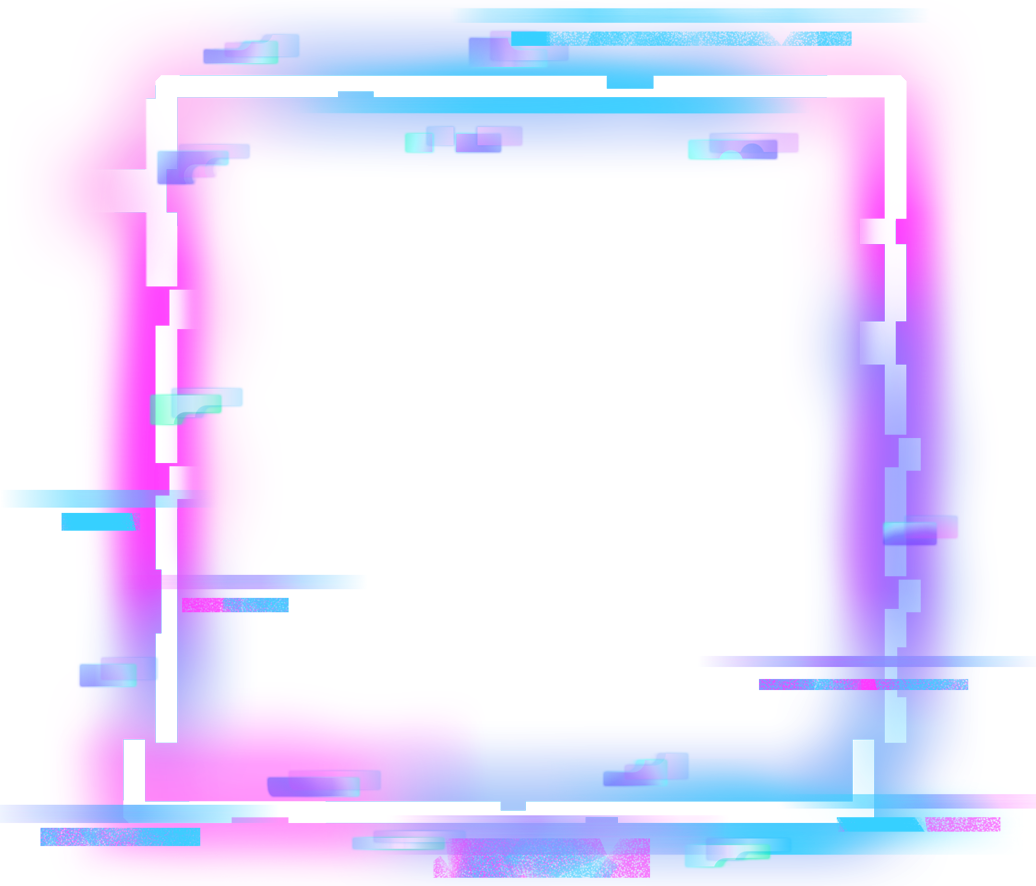
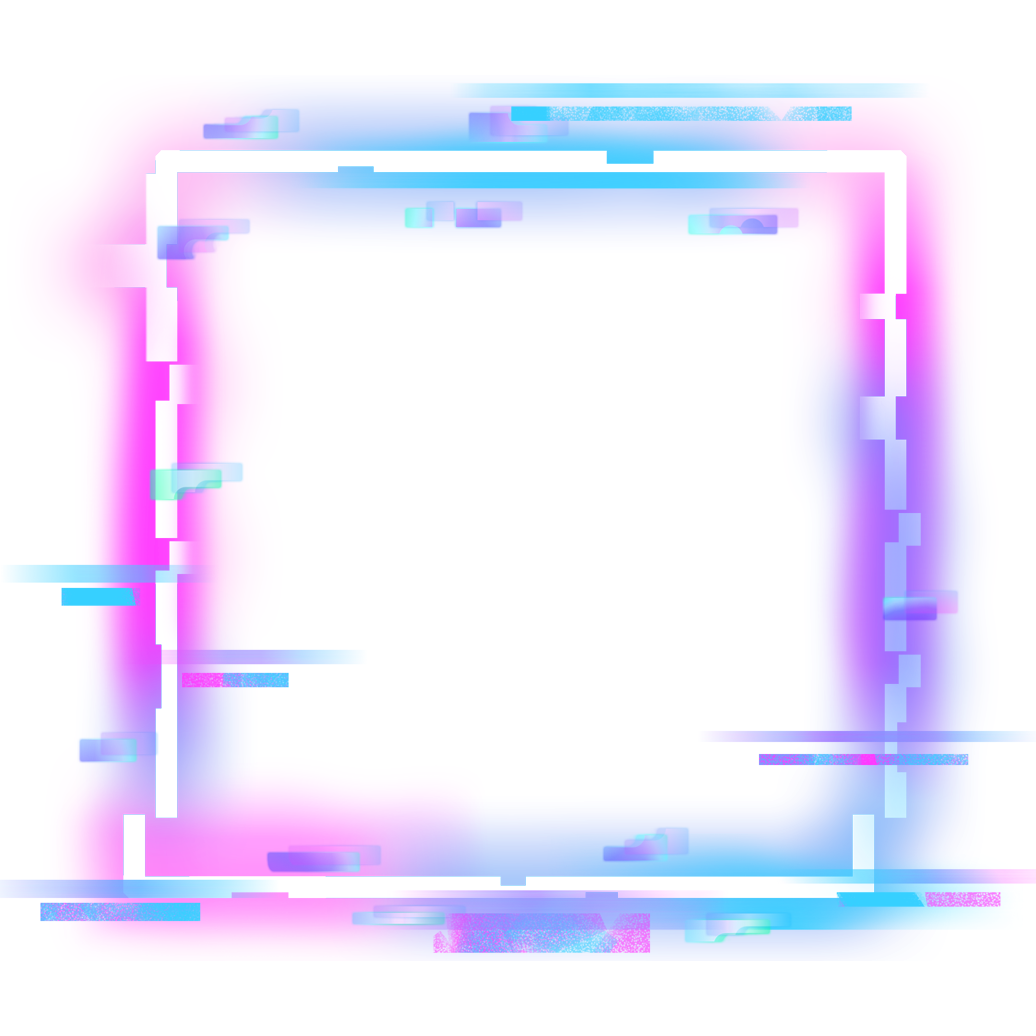
marcos redimensionados, iconos finance y devs creados

diff --git a/src/app/drop-down-menu/finance/finance.component.ts b/src/app/drop-down-menu/finance/finance.component.ts
@@ -21,34 +21,16 @@ export class FinanceComponent implements OnInit {
   iconos = {
     "icons": [
       {
-        "name": "github",
-        "path": "M165.9 397.4c0 2-2.3 3.6-5.2 3.6-3.3.3-5.6-1.3-5.6-3.6 0-2 2.3-3.6 5.2-3.6 3-.3 5.6 1.3 5.6 3.6zm-31.1-4.5c-.7 2 1.3 4.3 4.3 4.9 2.6 1 5.6 0 6.2-2s-1.3-4.3-4.3-5.2c-2.6-.7-5.5.3-6.2 2.3zm44.2-1.7c-2.9.7-4.9 2.6-4.6 4.9.3 2 2.9 3.3 5.9 2.6 2.9-.7 4.9-2.6 4.6-4.6-.3-1.9-3-3.2-5.9-2.9zM244.8 8C106.1 8 0 113.3 0 252c0 110.9 69.8 205.8 169.5 239.2 12.8 2.3 17.3-5.6 17.3-12.1 0-6.2-.3-40.4-.3-61.4 0 0-70 15-84.7-29.8 0 0-11.4-29.1-27.8-36.6 0 0-22.9-15.7 1.6-15.4 0 0 24.9 2 38.6 25.8 21.9 38.6 58.6 27.5 72.9 20.9 2.3-16 8.8-27.1 16-33.7-55.9-6.2-112.3-14.3-112.3-110.5 0-27.5 7.6-41.3 23.6-58.9-2.6-6.5-11.1-33.3 2.6-67.9 20.9-6.5 69 27 69 27 20-5.6 41.5-8.5 62.8-8.5s42.8 2.9 62.8 8.5c0 0 48.1-33.6 69-27 13.7 34.7 5.2 61.4 2.6 67.9 16 17.7 25.8 31.5 25.8 58.9 0 96.5-58.9 104.2-114.8 110.5 9.2 7.9 17 22.9 17 46.4 0 33.7-.3 75.4-.3 83.6 0 6.5 4.6 14.4 17.3 12.1C428.2 457.8 496 362.9 496 252 496 113.3 383.5 8 244.8 8zM97.2 352.9c-1.3 1-1 3.3.7 5.2 1.6 1.6 3.9 2.3 5.2 1 1.3-1 1-3.3-.7-5.2-1.6-1.6-3.9-2.3-5.2-1zm-10.8-8.1c-.7 1.3.3 2.9 2.3 3.9 1.6 1 3.6.7 4.3-.7.7-1.3-.3-2.9-2.3-3.9-2-.6-3.6-.3-4.3.7zm32.4 35.6c-1.6 1.3-1 4.3 1.3 6.2 2.3 2.3 5.2 2.6 6.5 1 1.3-1.3.7-4.3-1.3-6.2-2.2-2.3-5.2-2.6-6.5-1zm-11.4-14.7c-1.6 1-1.6 3.6 0 5.9 1.6 2.3 4.3 3.3 5.6 2.3 1.6-1.3 1.6-3.9 0-6.2-1.4-2.3-4-3.3-5.6-2z",
+        "name": "paypal",
+        "path": "M111.4 295.9c-3.5 19.2-17.4 108.7-21.5 134-.3 1.8-1 2.5-3 2.5H12.3c-7.6 0-13.1-6.6-12.1-13.9L58.8 46.6c1.5-9.6 10.1-16.9 20-16.9 152.3 0 165.1-3.7 204 11.4 60.1 23.3 65.6 79.5 44 140.3-21.5 62.6-72.5 89.5-140.1 90.3-43.4.7-69.5-7-75.3 24.2zM357.1 152c-1.8-1.3-2.5-1.8-3 1.3-2 11.4-5.1 22.5-8.8 33.6-39.9 113.8-150.5 103.9-204.5 103.9-6.1 0-10.1 3.3-10.9 9.4-22.6 140.4-27.1 169.7-27.1 169.7-1 7.1 3.5 12.9 10.6 12.9h63.5c8.6 0 15.7-6.3 17.4-14.9.7-5.4-1.1 6.1 14.4-91.3 4.6-22 14.3-19.7 29.3-19.7 71 0 126.4-28.8 142.9-112.3 6.5-34.8 4.6-71.4-23.8-92.6z",
         "index": 0,
-        "css": "fa-brands fa-github github"
+        "css": "fa-brands fa-paypal paypal"
       },
       {
-        "name": "pdf",
-        "path": "M64 0C28.7 0 0 28.7 0 64V448c0 35.3 28.7 64 64 64H320c35.3 0 64-28.7 64-64V160H256c-17.7 0-32-14.3-32-32V0H64zM256 0V128H384L256 0zM64 224H88c30.9 0 56 25.1 56 56s-25.1 56-56 56H80v32c0 8.8-7.2 16-16 16s-16-7.2-16-16V320 240c0-8.8 7.2-16 16-16zm24 80c13.3 0 24-10.7 24-24s-10.7-24-24-24H80v48h8zm72-64c0-8.8 7.2-16 16-16h24c26.5 0 48 21.5 48 48v64c0 26.5-21.5 48-48 48H176c-8.8 0-16-7.2-16-16V240zm32 112h8c8.8 0 16-7.2 16-16V272c0-8.8-7.2-16-16-16h-8v96zm96-128h48c8.8 0 16 7.2 16 16s-7.2 16-16 16H304v32h32c8.8 0 16 7.2 16 16s-7.2 16-16 16H304v48c0 8.8-7.2 16-16 16s-16-7.2-16-16V304 240c0-8.8 7.2-16 16-16z",
+        "name": "credit",
+        "path": "M168 336C181.3 336 192 346.7 192 360C192 373.3 181.3 384 168 384H120C106.7 384 96 373.3 96 360C96 346.7 106.7 336 120 336H168zM360 336C373.3 336 384 346.7 384 360C384 373.3 373.3 384 360 384H248C234.7 384 224 373.3 224 360C224 346.7 234.7 336 248 336H360zM512 32C547.3 32 576 60.65 576 96V416C576 451.3 547.3 480 512 480H64C28.65 480 0 451.3 0 416V96C0 60.65 28.65 32 64 32H512zM512 80H64C55.16 80 48 87.16 48 96V128H528V96C528 87.16 520.8 80 512 80zM528 224H48V416C48 424.8 55.16 432 64 432H512C520.8 432 528 424.8 528 416V224z",
         "index": 100,
-        "css": "fa-solid fa-file-pdf pdf"
-      },
-      {
-        "name": "wifi",
-        "path": "M54.2 202.9C123.2 136.7 216.8 96 320 96s196.8 40.7 265.8 106.9c12.8 12.2 33 11.8 45.2-.9s11.8-33-.9-45.2C549.7 79.5 440.4 32 320 32S90.3 79.5 9.8 156.7C-2.9 169-3.3 189.2 8.9 202s32.5 13.2 45.2 .9zM320 256c56.8 0 108.6 21.1 148.2 56c13.3 11.7 33.5 10.4 45.2-2.8s10.4-33.5-2.8-45.2C459.8 219.2 393 192 320 192s-139.8 27.2-190.5 72c-13.3 11.7-14.5 31.9-2.8 45.2s31.9 14.5 45.2 2.8c39.5-34.9 91.3-56 148.2-56zm64 160c0-35.3-28.7-64-64-64s-64 28.7-64 64s28.7 64 64 64s64-28.7 64-64z",
-        "index": 200,
-        "css": "fa-solid fa-wifi wifi"
-      },
-      {
-        "name": "descarga",
-        "path": "M64 0C28.7 0 0 28.7 0 64V448c0 35.3 28.7 64 64 64H320c35.3 0 64-28.7 64-64V160H256c-17.7 0-32-14.3-32-32V0H64zM256 0V128H384L256 0zM216 232V334.1l31-31c9.4-9.4 24.6-9.4 33.9 0s9.4 24.6 0 33.9l-72 72c-9.4 9.4-24.6 9.4-33.9 0l-72-72c-9.4-9.4-9.4-24.6 0-33.9s24.6-9.4 33.9 0l31 31V232c0-13.3 10.7-24 24-24s24 10.7 24 24z",
-        "index": 300,
-        "css": "fa-solid fa-file-arrow-down download"
-      },
-      {
-        "name": "codigo",
-        "path": "M392.8 1.2c-17-4.9-34.7 5-39.6 22l-128 448c-4.9 17 5 34.7 22 39.6s34.7-5 39.6-22l128-448c4.9-17-5-34.7-22-39.6zm80.6 120.1c-12.5 12.5-12.5 32.8 0 45.3L562.7 256l-89.4 89.4c-12.5 12.5-12.5 32.8 0 45.3s32.8 12.5 45.3 0l112-112c12.5-12.5 12.5-32.8 0-45.3l-112-112c-12.5-12.5-32.8-12.5-45.3 0zm-306.7 0c-12.5-12.5-32.8-12.5-45.3 0l-112 112c-12.5 12.5-12.5 32.8 0 45.3l112 112c12.5 12.5 32.8 12.5 45.3 0s12.5-32.8 0-45.3L77.3 256l89.4-89.4c12.5-12.5 12.5-32.8 0-45.3z",
-        "index": 400,
-        "css": "fa-solid fa-code codigo"
+        "css": "fa-regular fa-credit-card credit"
       }
     ]
   };

diff --git a/src/assets/iconFinance.js b/src/assets/iconFinance.js
@@ -3,17 +3,11 @@ const dropdownListFinance = document.getElementById('dropdown-list-finance');
 const floatingIconFinance = document.getElementById('floating-icon-finance');
 
 const iconsFinance = {
-  github:
-    "M165.9 397.4c0 2-2.3 3.6-5.2 3.6-3.3.3-5.6-1.3-5.6-3.6 0-2 2.3-3.6 5.2-3.6 3-.3 5.6 1.3 5.6 3.6zm-31.1-4.5c-.7 2 1.3 4.3 4.3 4.9 2.6 1 5.6 0 6.2-2s-1.3-4.3-4.3-5.2c-2.6-.7-5.5.3-6.2 2.3zm44.2-1.7c-2.9.7-4.9 2.6-4.6 4.9.3 2 2.9 3.3 5.9 2.6 2.9-.7 4.9-2.6 4.6-4.6-.3-1.9-3-3.2-5.9-2.9zM244.8 8C106.1 8 0 113.3 0 252c0 110.9 69.8 205.8 169.5 239.2 12.8 2.3 17.3-5.6 17.3-12.1 0-6.2-.3-40.4-.3-61.4 0 0-70 15-84.7-29.8 0 0-11.4-29.1-27.8-36.6 0 0-22.9-15.7 1.6-15.4 0 0 24.9 2 38.6 25.8 21.9 38.6 58.6 27.5 72.9 20.9 2.3-16 8.8-27.1 16-33.7-55.9-6.2-112.3-14.3-112.3-110.5 0-27.5 7.6-41.3 23.6-58.9-2.6-6.5-11.1-33.3 2.6-67.9 20.9-6.5 69 27 69 27 20-5.6 41.5-8.5 62.8-8.5s42.8 2.9 62.8 8.5c0 0 48.1-33.6 69-27 13.7 34.7 5.2 61.4 2.6 67.9 16 17.7 25.8 31.5 25.8 58.9 0 96.5-58.9 104.2-114.8 110.5 9.2 7.9 17 22.9 17 46.4 0 33.7-.3 75.4-.3 83.6 0 6.5 4.6 14.4 17.3 12.1C428.2 457.8 496 362.9 496 252 496 113.3 383.5 8 244.8 8zM97.2 352.9c-1.3 1-1 3.3.7 5.2 1.6 1.6 3.9 2.3 5.2 1 1.3-1 1-3.3-.7-5.2-1.6-1.6-3.9-2.3-5.2-1zm-10.8-8.1c-.7 1.3.3 2.9 2.3 3.9 1.6 1 3.6.7 4.3-.7.7-1.3-.3-2.9-2.3-3.9-2-.6-3.6-.3-4.3.7zm32.4 35.6c-1.6 1.3-1 4.3 1.3 6.2 2.3 2.3 5.2 2.6 6.5 1 1.3-1.3.7-4.3-1.3-6.2-2.2-2.3-5.2-2.6-6.5-1zm-11.4-14.7c-1.6 1-1.6 3.6 0 5.9 1.6 2.3 4.3 3.3 5.6 2.3 1.6-1.3 1.6-3.9 0-6.2-1.4-2.3-4-3.3-5.6-2z",
-  pdf:
-    "M64 0C28.7 0 0 28.7 0 64V448c0 35.3 28.7 64 64 64H320c35.3 0 64-28.7 64-64V160H256c-17.7 0-32-14.3-32-32V0H64zM256 0V128H384L256 0zM64 224H88c30.9 0 56 25.1 56 56s-25.1 56-56 56H80v32c0 8.8-7.2 16-16 16s-16-7.2-16-16V320 240c0-8.8 7.2-16 16-16zm24 80c13.3 0 24-10.7 24-24s-10.7-24-24-24H80v48h8zm72-64c0-8.8 7.2-16 16-16h24c26.5 0 48 21.5 48 48v64c0 26.5-21.5 48-48 48H176c-8.8 0-16-7.2-16-16V240zm32 112h8c8.8 0 16-7.2 16-16V272c0-8.8-7.2-16-16-16h-8v96zm96-128h48c8.8 0 16 7.2 16 16s-7.2 16-16 16H304v32h32c8.8 0 16 7.2 16 16s-7.2 16-16 16H304v48c0 8.8-7.2 16-16 16s-16-7.2-16-16V304 240c0-8.8 7.2-16 16-16z",
-  wifi:
-    "M54.2 202.9C123.2 136.7 216.8 96 320 96s196.8 40.7 265.8 106.9c12.8 12.2 33 11.8 45.2-.9s11.8-33-.9-45.2C549.7 79.5 440.4 32 320 32S90.3 79.5 9.8 156.7C-2.9 169-3.3 189.2 8.9 202s32.5 13.2 45.2 .9zM320 256c56.8 0 108.6 21.1 148.2 56c13.3 11.7 33.5 10.4 45.2-2.8s10.4-33.5-2.8-45.2C459.8 219.2 393 192 320 192s-139.8 27.2-190.5 72c-13.3 11.7-14.5 31.9-2.8 45.2s31.9 14.5 45.2 2.8c39.5-34.9 91.3-56 148.2-56zm64 160c0-35.3-28.7-64-64-64s-64 28.7-64 64s28.7 64 64 64s64-28.7 64-64z",
-  descarga:
-    "M64 0C28.7 0 0 28.7 0 64V448c0 35.3 28.7 64 64 64H320c35.3 0 64-28.7 64-64V160H256c-17.7 0-32-14.3-32-32V0H64zM256 0V128H384L256 0zM216 232V334.1l31-31c9.4-9.4 24.6-9.4 33.9 0s9.4 24.6 0 33.9l-72 72c-9.4 9.4-24.6 9.4-33.9 0l-72-72c-9.4-9.4-9.4-24.6 0-33.9s24.6-9.4 33.9 0l31 31V232c0-13.3 10.7-24 24-24s24 10.7 24 24z",
-  codigo:
-    "M392.8 1.2c-17-4.9-34.7 5-39.6 22l-128 448c-4.9 17 5 34.7 22 39.6s34.7-5 39.6-22l128-448c4.9-17-5-34.7-22-39.6zm80.6 120.1c-12.5 12.5-12.5 32.8 0 45.3L562.7 256l-89.4 89.4c-12.5 12.5-12.5 32.8 0 45.3s32.8 12.5 45.3 0l112-112c12.5-12.5 12.5-32.8 0-45.3l-112-112c-12.5-12.5-32.8-12.5-45.3 0zm-306.7 0c-12.5-12.5-32.8-12.5-45.3 0l-112 112c-12.5 12.5-12.5 32.8 0 45.3l112 112c12.5 12.5 32.8 12.5 45.3 0s12.5-32.8 0-45.3L77.3 256l89.4-89.4c12.5-12.5 12.5-32.8 0-45.3z"
-};
+  paypal:
+        "M111.4 295.9c-3.5 19.2-17.4 108.7-21.5 134-.3 1.8-1 2.5-3 2.5H12.3c-7.6 0-13.1-6.6-12.1-13.9L58.8 46.6c1.5-9.6 10.1-16.9 20-16.9 152.3 0 165.1-3.7 204 11.4 60.1 23.3 65.6 79.5 44 140.3-21.5 62.6-72.5 89.5-140.1 90.3-43.4.7-69.5-7-75.3 24.2zM357.1 152c-1.8-1.3-2.5-1.8-3 1.3-2 11.4-5.1 22.5-8.8 33.6-39.9 113.8-150.5 103.9-204.5 103.9-6.1 0-10.1 3.3-10.9 9.4-22.6 140.4-27.1 169.7-27.1 169.7-1 7.1 3.5 12.9 10.6 12.9h63.5c8.6 0 15.7-6.3 17.4-14.9.7-5.4-1.1 6.1 14.4-91.3 4.6-22 14.3-19.7 29.3-19.7 71 0 126.4-28.8 142.9-112.3 6.5-34.8 4.6-71.4-23.8-92.6z",
+  credit:
+        "M168 336C181.3 336 192 346.7 192 360C192 373.3 181.3 384 168 384H120C106.7 384 96 373.3 96 360C96 346.7 106.7 336 120 336H168zM360 336C373.3 336 384 346.7 384 360C384 373.3 373.3 384 360 384H248C234.7 384 224 373.3 224 360C224 346.7 234.7 336 248 336H360zM512 32C547.3 32 576 60.65 576 96V416C576 451.3 547.3 480 512 480H64C28.65 480 0 451.3 0 416V96C0 60.65 28.65 32 64 32H512zM512 80H64C55.16 80 48 87.16 48 96V128H528V96C528 87.16 520.8 80 512 80zM528 224H48V416C48 424.8 55.16 432 64 432H512C520.8 432 528 424.8 528 416V224z"
+  };
 
 const iconTemplateFinance = (path) => {
   return `

diff --git a/src/app/componentes/icon/icon.component.css b/src/app/componentes/icon/icon.component.css
@@ -15,7 +15,10 @@ span{
     background-color: #25D366;
     color: #f8f8f3;
     border-radius: 50%;
-    padding-bottom: .2em;
+    height: 1.3em;
+    width: 1.3em;
+    padding-bottom: .25em;
+    padding-left: .25em;
 }
 .twitter{
     color: #1DA1F2;
@@ -32,6 +35,7 @@ span{
     border-radius: 50%;
     height: 1.2em;
     width: 1.2em;
+    padding-top: .4em;
 }
 .linkedin{
     color: #0e76a8;
@@ -43,25 +47,71 @@ span{
 .youtube{
     color: #FF0000;
     background-color: #f8f4f4;
+    width: .7em;
+    height: .6em;
 }
 .discord{
     color: #f8f4f4;
     background-color: #5865F2;
     border-radius: 50%;
+    height: 1.4em;
+    width: 1.4em;
 }
 .tiktok{
     color: #f8f4f4;
     background-color: #111111;
     border-radius: 50%;
+    height: 1.2em;
+    width: 1.2em;
 }
 .steam{
     color: #f8f4f4;
     background:linear-gradient(120deg, #00adee, #000000);;
     border-radius: 25%;
-    padding-right: 7px;
+    padding-right: .34em;
 }
 .github{
-    color: #000000 ;
-    background-color: #f8f4f4 ;
+    color: #000000;
+    background-color: #f8f4f4;
     border-radius: 50%;
+    width: .95em;
+    height: .95em;
+}
+.pdf{
+    color: #f8f4f4;
+    background-color: #FF0000;
+    width: .9em;
+    height: 1.2em;
+    border-radius: 25%;
+}
+.wifi{
+    color:#0ab1ee;
+}
+.download{
+    color: #d5ebe0;
+    background-color: #25D366;
+    width: .9em;
+    height: 1.2em;
+    border-radius: 25%;
+}
+.code{
+    color: #cf4007;
+    background-color: #111111;
+    border-radius: 50%;
+    height: 1.4em;
+    width: 1.4em;
+}
+.paypal{
+    color: #d5dceb;
+    background-color: #0079C1;
+    border-radius: 50%;
+    height: 1.2em;
+    width: 1.2em;
+}
+.credit{
+    color:#111111;
+    background-color: #ffaa0b;
+    width: 1.1em;
+    height: .8em;
+    border-radius: 10%;
 }

diff --git a/src/app/componentes/wrapping/wrapping.component.css b/src/app/componentes/wrapping/wrapping.component.css
@@ -20,60 +20,37 @@ img{
     display: none;
 }
 .neon{
-    top: 1px;
-    width: 420px;
-    height: 420px;
-}
-.solar{
-    z-index: -1;
-    width: 410px;
-    height: 410px;
-    top: -2px;
-}
-.monitor{
-    width: 410px;
-    height: 370px;
-    top: -10px;
-    left: .05px;
+    z-index: 1000;
 }
 .movil{
-    width: 420px;
-    height: 400px;
     z-index: -1;
-    top: 1px;
+    left: .1em;
 }
 .rabbit{
     z-index: -1;
-    top:-2px;
-    left: 1px;
+    top: -.2em;
+    left: .1em;
+}
+.laser{
+    z-index: 1000;
+    left: .1em;
 }
 .china{
-    width: 410px;
-    height: 410px;
+    z-index: 1000;
+    left: .15em;
 }
 .rustico{
-    width: 410px;
-    height: 410px;
+    z-index: 1000;
 }
 .road{
-    width: 385px;
-    height: 400px;
-    top: -10px;
-}
-.vintage{
-    display: flex;
-    top: -4px;
-    left: -2px;
-    width: 410x;
-    height: 410px;
-    z-index: -1;
+    z-index: 1000;
 }
 .scan{
-    width: 420px;
-    height: 410px;
-    left: 1px;
+    z-index: 1000;
 }
 .colors{
-    width: 420px;
-    height: 420px;
+    z-index: 1000;
+}
+.estambre{
+    z-index: 1000;
 }

diff --git a/src/app/forms/qr-wraping-form/qr-wraping-form.component.ts b/src/app/forms/qr-wraping-form/qr-wraping-form.component.ts
@@ -10,10 +10,9 @@ export class QrWrapingFormComponent implements OnInit {
   wraping = "";
   wrapingClass = {
     "wraping": [
-      { "name": "not_selection" }, { "name": "party" }, { "name": "neon" }, { "name": "solar" },
-      { "name": "monitor" }, { "name": "movil" }, { "name": "rabbit" }, { "name": "laser" },
-      { "name": "china" }, { "name": "rustico" }, { "name": "vintage" }, { "name": "road" },
-      { "name": "scan" }, { "name": "colors" }
+      { "name": "not_selection" }, { "name": "party" }, { "name": "neon" }, { "name": "movil" }, { "name": "rabbit" }, { "name": "laser" },
+      { "name": "china" }, { "name": "rustico" }, { "name": "road" }, { "name": "scan" }, 
+      { "name": "colors" }, { "name": "estambre" }
     ]
   }
 

diff --git a/src/app/drop-down-menu/devs/devs.component.ts b/src/app/drop-down-menu/devs/devs.component.ts
@@ -48,7 +48,7 @@ export class DevsComponent implements OnInit {
         "name": "codigo",
         "path": "M392.8 1.2c-17-4.9-34.7 5-39.6 22l-128 448c-4.9 17 5 34.7 22 39.6s34.7-5 39.6-22l128-448c4.9-17-5-34.7-22-39.6zm80.6 120.1c-12.5 12.5-12.5 32.8 0 45.3L562.7 256l-89.4 89.4c-12.5 12.5-12.5 32.8 0 45.3s32.8 12.5 45.3 0l112-112c12.5-12.5 12.5-32.8 0-45.3l-112-112c-12.5-12.5-32.8-12.5-45.3 0zm-306.7 0c-12.5-12.5-32.8-12.5-45.3 0l-112 112c-12.5 12.5-12.5 32.8 0 45.3l112 112c12.5 12.5 32.8 12.5 45.3 0s12.5-32.8 0-45.3L77.3 256l89.4-89.4c12.5-12.5 12.5-32.8 0-45.3z",
         "index": 400,
-        "css": "fa-solid fa-code codigo"
+        "css": "fa-solid fa-code code"
       }
     ]
   };

diff --git a/src/app/drop-down-menu/acordion/acordion.component.css b/src/app/drop-down-menu/acordion/acordion.component.css
@@ -32,7 +32,7 @@ section{
 }
 
 .accordion-panel {
-    padding: 5px 25px;
+    padding: 5px 4em;
     margin-bottom: 10px;
     border: 1px solid #777e91;
     border-radius: 50px;
